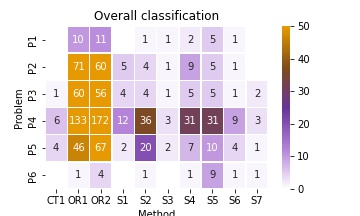
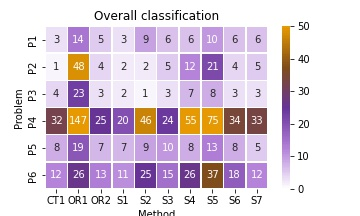
OK all graphs

diff --git a/src/3. analyse_results.py b/src/3. analyse_results.py
@@ -388,4 +388,29 @@ plt.tight_layout()
 plt.savefig("../data/output/_method_analytics_family_heatmap.jpg")
 plt.show()
 
+# %% Grafico con variazioni percentuali
+# %% Calcolo variazioni percentuali tra decadi
+
+# Raggruppa i dati e calcola i conteggi
+D_years = df_analysis_permutations.groupby(['Decade', 'method_overall']).size().reset_index(name='count')
+
+# Trasforma in una tabella pivot (decade come colonne)
+D_years_square = D_years.pivot(index='method_overall', columns='Decade', values='count')
+
+# Calcola la variazione percentuale da una decade all'altra (ignorando la prima)
+D_years_square_pct = D_years_square.pct_change(axis=1) * 100  # Converti in percentuale
+
+# Rimuove la prima colonna (senza riferimento precedente per la variazione)
+D_years_square_pct = D_years_square_pct.iloc[:, 1:]
+
+# Plot della heatmap con variazioni percentuali
+plt.figure(figsize=(6, 4))
+sns.heatmap(D_years_square_pct, linewidths=.5, annot=True, cmap="coolwarm", fmt=".1f", center=0)
+plt.title("Percentual Variation of Methods Implementation Over Time")
+plt.ylabel("Method")
+plt.xlabel("Decade")
+plt.savefig("../data/output/_time_transition_percentage.jpg")
+plt.show()
+
+
 # %%
